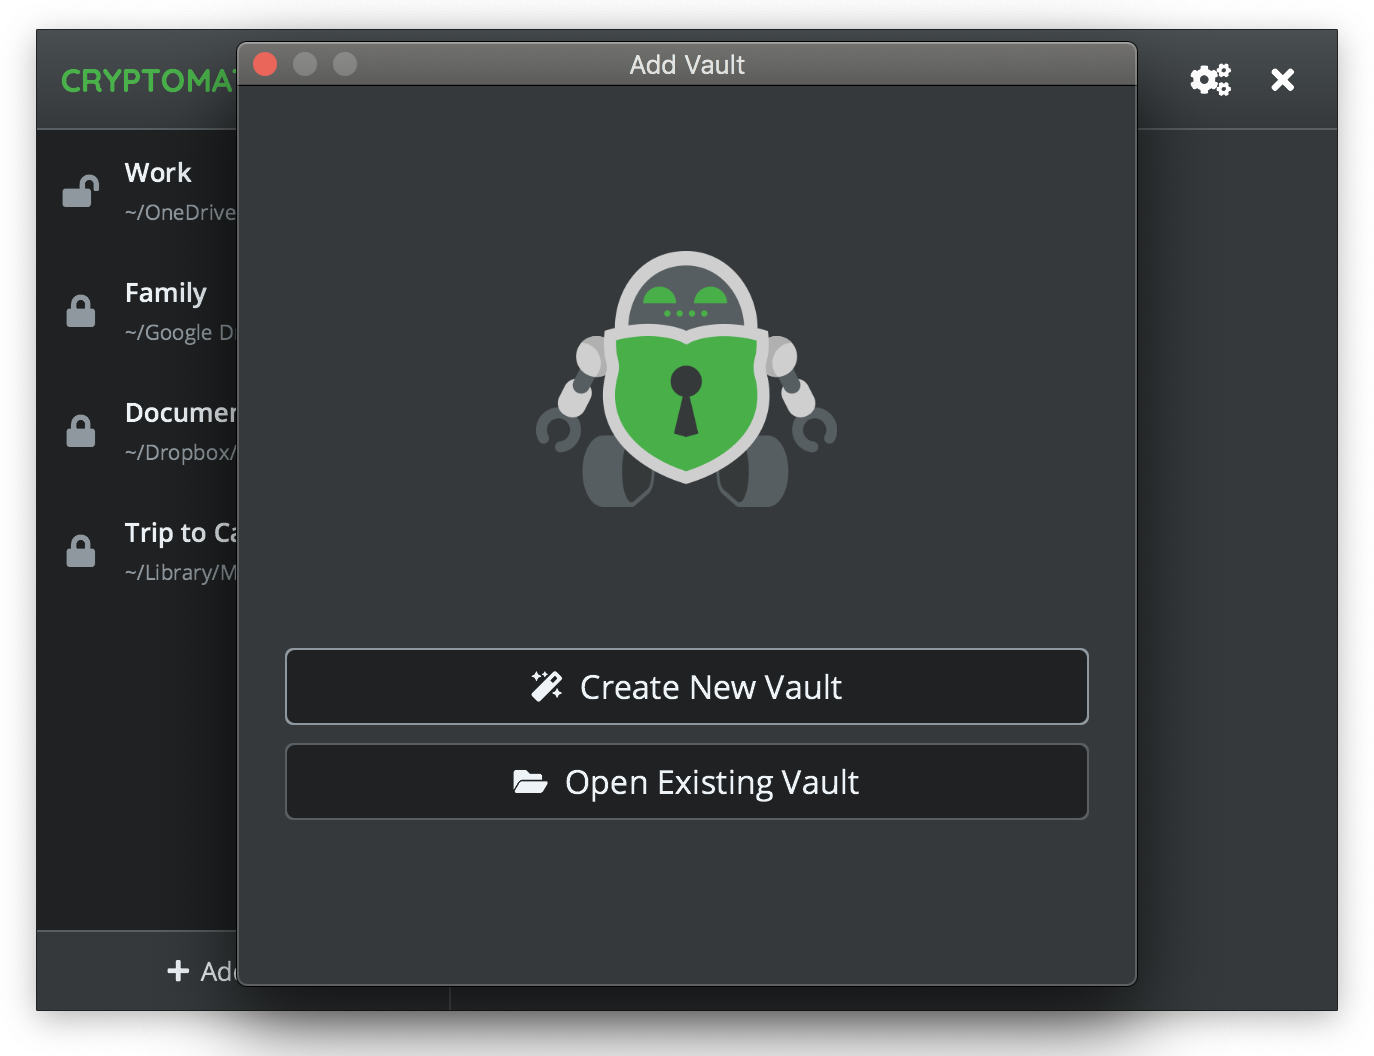
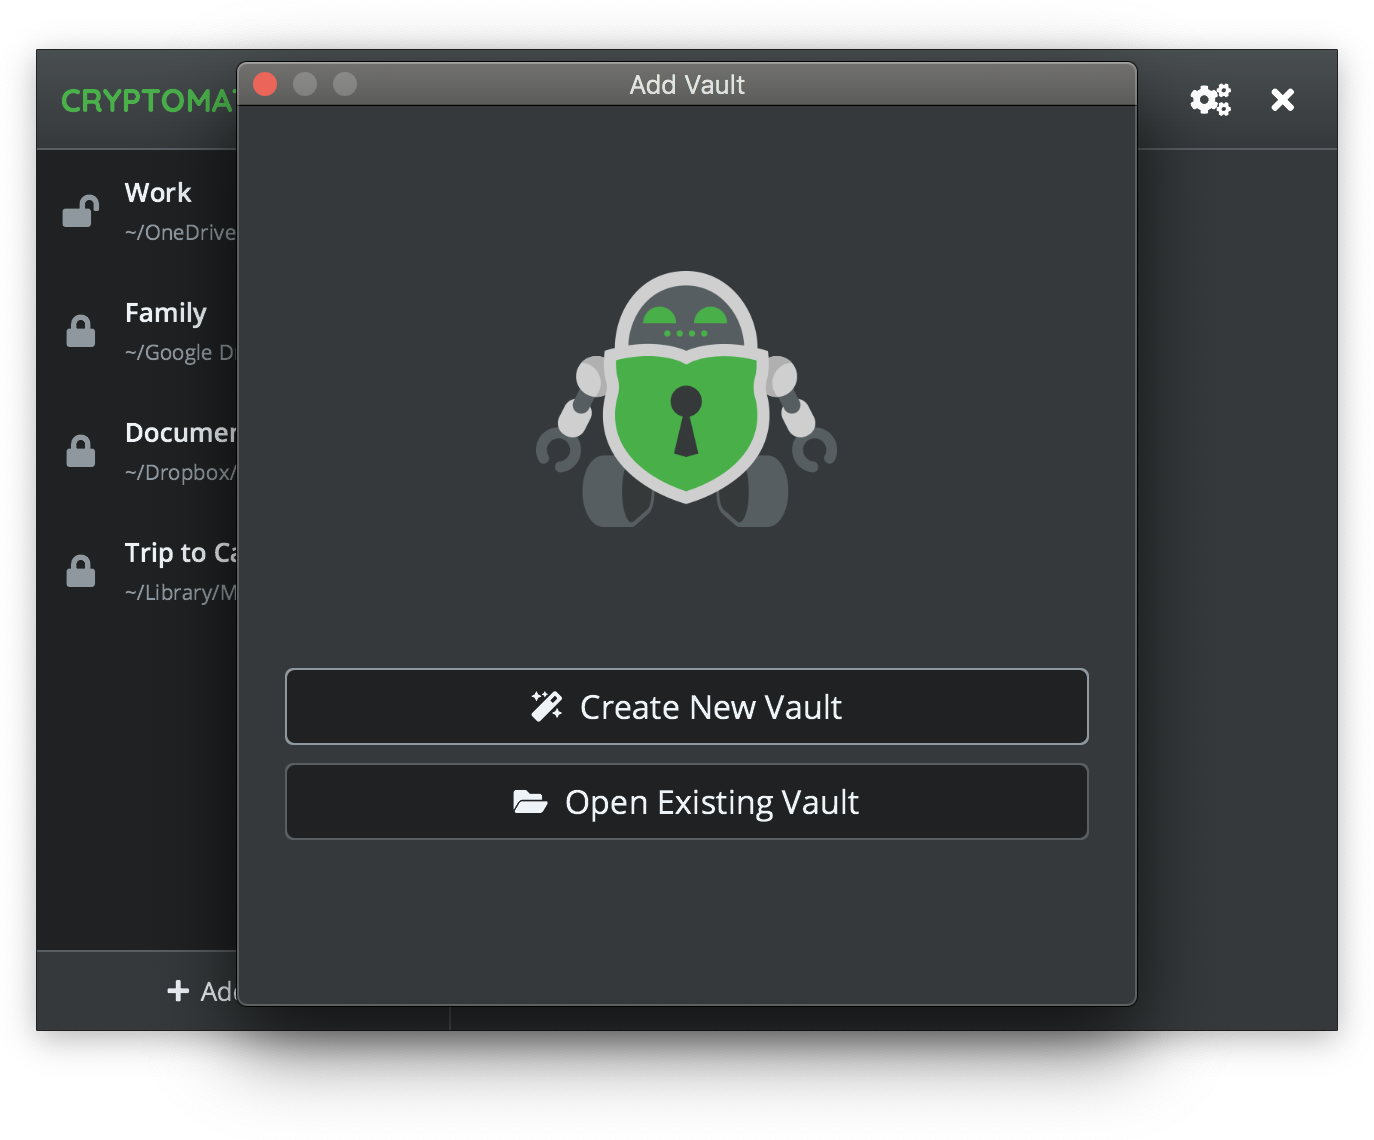
fixed mac screenshots (shadow was clipped)

diff --git a/content/presskit/07-mac-screenshots.de.md b/content/presskit/07-mac-screenshots.de.md
@@ -8,7 +8,7 @@ weight: 7
     <figure class="rounded shadow bg-white text-center p-2 mb-8">
       <a href="/presskit/mac-screenshot-1.png"><img class="inline-block mb-2 lazyload" data-src="/presskit/mac-screenshot-1.png" alt="Hinzufügen eines Tresors"/></a>
       <figcaption>
-        <p class="text-sm text-gray-500 mb-0">Hinzufügen eines Tresors • 1374x1056 • PNG</p>
+        <p class="text-sm text-gray-500 mb-0">Hinzufügen eines Tresors • 1374x1140 • PNG</p>
       </figcaption>
     </figure>
   </div>
@@ -16,7 +16,7 @@ weight: 7
     <figure class="rounded shadow bg-white text-center p-2 mb-8">
       <a href="/presskit/mac-screenshot-2.png"><img class="inline-block mb-2 lazyload" data-src="/presskit/mac-screenshot-2.png" alt="Hinzufügen eines Tresors (Dark Mode)"/></a>
       <figcaption>
-        <p class="text-sm text-gray-500 mb-0">Hinzufügen eines Tresors (Dark Mode) • 1374x1056 • PNG</p>
+        <p class="text-sm text-gray-500 mb-0">Hinzufügen eines Tresors (Dark Mode) • 1374x1140 • PNG</p>
       </figcaption>
     </figure>
   </div>

diff --git a/content/presskit/07-mac-screenshots.en.md b/content/presskit/07-mac-screenshots.en.md
@@ -8,7 +8,7 @@ weight: 7
     <figure class="rounded shadow bg-white text-center p-2 mb-8">
       <a href="/presskit/mac-screenshot-1.png"><img class="inline-block mb-2 lazyload" data-src="/presskit/mac-screenshot-1.png" alt="Add vault"/></a>
       <figcaption>
-        <p class="text-sm text-gray-500 mb-0">Add vault • 1374x1056 • PNG</p>
+        <p class="text-sm text-gray-500 mb-0">Add vault • 1374x1140 • PNG</p>
       </figcaption>
     </figure>
   </div>
@@ -16,7 +16,7 @@ weight: 7
     <figure class="rounded shadow bg-white text-center p-2 mb-8">
       <a href="/presskit/mac-screenshot-2.png"><img class="inline-block mb-2 lazyload" data-src="/presskit/mac-screenshot-2.png" alt="Add vault (Dark Mode)"/></a>
       <figcaption>
-        <p class="text-sm text-gray-500 mb-0">Add vault (Dark Mode) • 1374x1056 • PNG</p>
+        <p class="text-sm text-gray-500 mb-0">Add vault (Dark Mode) • 1374x1140 • PNG</p>
       </figcaption>
     </figure>
   </div>
